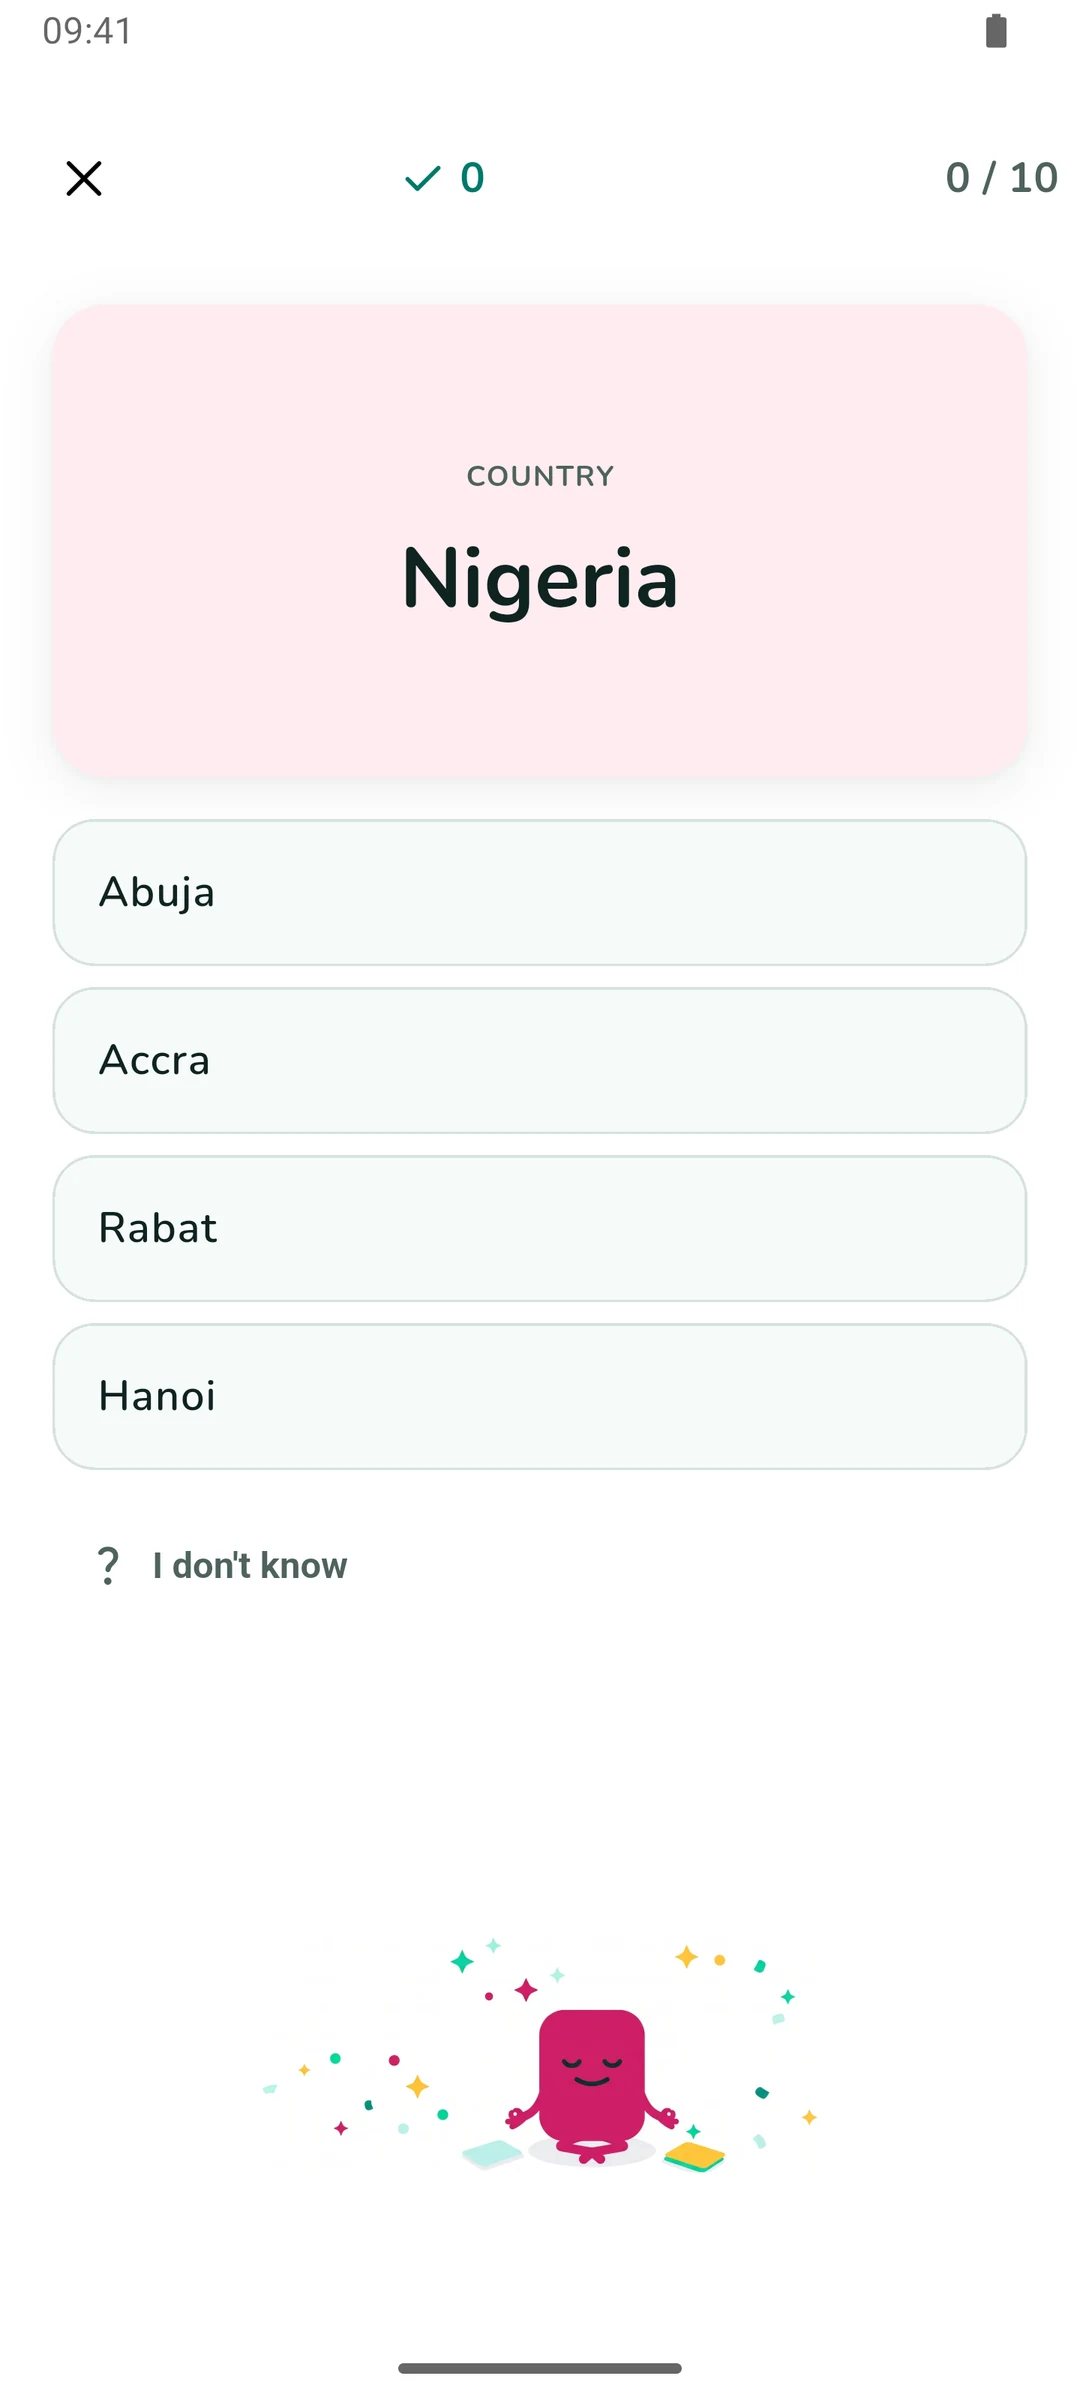
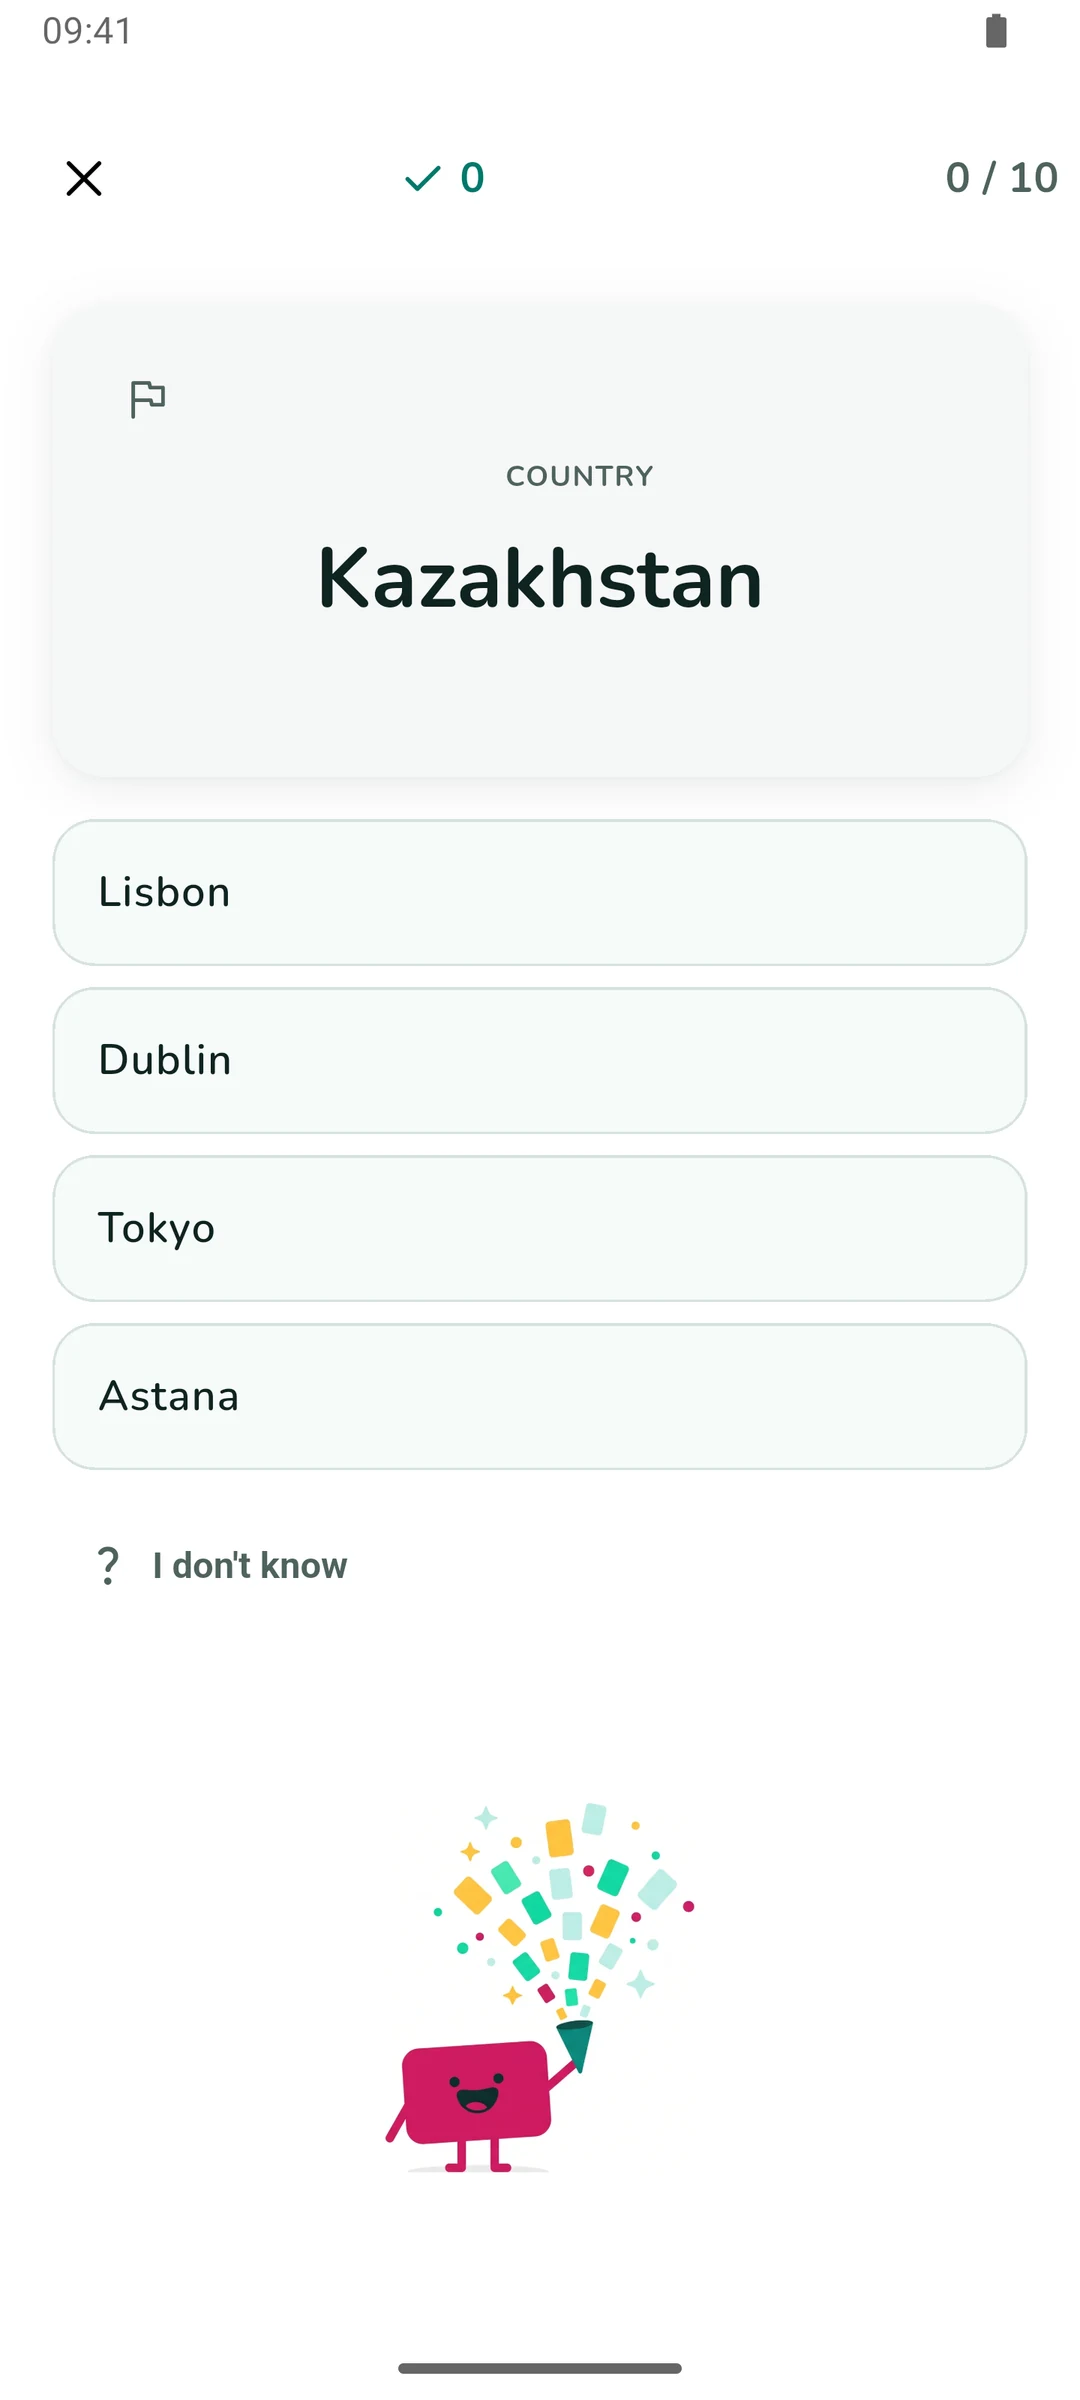
Screenshots re-shot on QIZU 1.3.0+20
Type, wrong, choices, self-check, catalog and edit frames now show the
current card chrome (report flag, replay, loudspeaker) and Set Edit's Done;
the catalog frame lists all ten ready-made groups. Alt texts follow the new
frames.

diff --git a/index.html b/index.html
@@ -1010,15 +1010,15 @@ footer .copy{margin-left:auto;color:var(--ink-variant);font-size:.9rem}
         <figcaption>Wrong</figcaption>
       </figure>
       <figure class="shot">
-        <div class="frame"><img src="img/shot-choices.webp" alt="Multiple choice: the country Nigeria with four capital options and an I don't know button." width="540" height="1200" loading="lazy"></div>
+        <div class="frame"><img src="img/shot-choices.webp" alt="Multiple choice: the country Kazakhstan with four capital options and an I don't know button." width="540" height="1200" loading="lazy"></div>
         <figcaption>Choices</figcaption>
       </figure>
       <figure class="shot">
-        <div class="frame"><img src="img/shot-selfcheck.webp" alt="Self-check: a card turned to its English side reading movie theater; cinema, with Don't know and Know it buttons below." width="540" height="1200" loading="lazy"></div>
+        <div class="frame"><img src="img/shot-selfcheck.webp" alt="Self-check: a card turned to its English side reading the day before yesterday, with a play button to hear it and Don't know and Know it buttons below." width="540" height="1200" loading="lazy"></div>
         <figcaption>Self-check</figcaption>
       </figure>
       <figure class="shot">
-        <div class="frame"><img src="img/shot-catalog.webp" alt="The ready-made sets browser with HSK, JLPT, TOPIK and CEFR groups for English, German, French and Spanish; the JLPT group is open showing N5 to N1 with their word counts. Captured on an earlier version — the catalogue has since gained English for Work &amp; Study and B2 lists." width="540" height="1200" loading="lazy"></div>
+        <div class="frame"><img src="img/shot-catalog.webp" alt="The ready-made sets browser listing all ten groups with their set and word counts: HSK 2.0, HSK 3.0 Levels 1–6 and 7–9, JLPT, TOPIK, English CEFR, English for Work &amp; Study, and German, French and Spanish CEFR." width="540" height="1200" loading="lazy"></div>
         <figcaption>Ready-made sets — 43 lists</figcaption>
       </figure>
       <figure class="shot">
